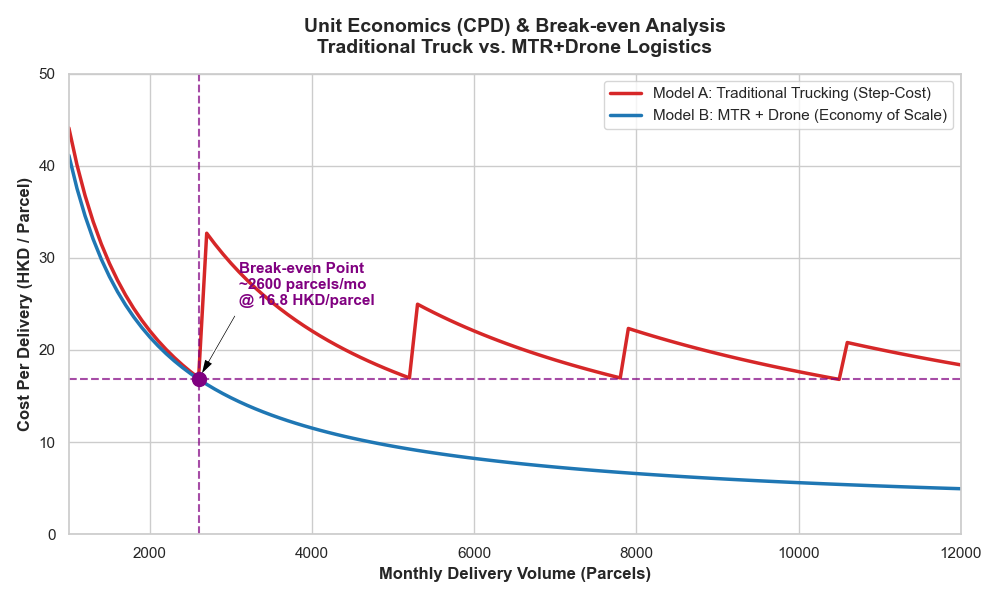
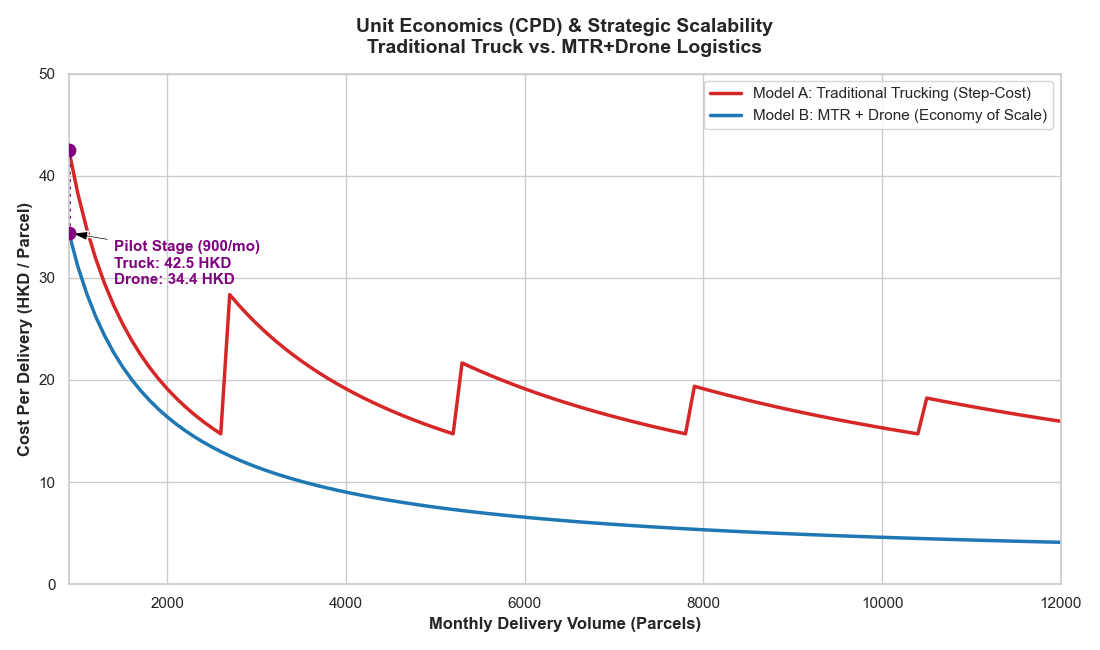
cost measurement

Changed region(s): [[0.0, 0.03, 0.992, 0.99]]

diff --git a/FYP/src/Cost_measurement.py b/FYP/src/Cost_measurement.py
@@ -3,125 +3,33 @@ import pandas as pd
 import matplotlib.pyplot as plt
 import seaborn as sns
 
-# ==========================================
-# PART 1: STATIC FINANCIAL AUDIT (Target Volume = 10,500 parcels/month)
-# ==========================================
+# 1. Define Volume Range (From pilot 900 to massive 12000)
+volumes = np.arange(900, 12500, 100)
 
-print("=" * 60)
-print("FINANCIAL AUDIT: TCO & UNIT ECONOMICS ANALYSIS")
-print("Target Monthly Volume: 10,500 parcels (420 parcels/day)")
-print("=" * 60)
-
-target_volume = 10500
-
-# --- MODEL A: TRADITIONAL TRUCK PARAMETERS ---
-truck_capacity_monthly = 2625  # ~105 parcels/day * 25 days
-trucks_needed = int(np.ceil(target_volume / truck_capacity_monthly))  # 4 trucks
-
-driver_salary = 26054
-fuel_cost_per_truck = (
-    (8.5 / 100) * 100 * 25 * 29.27
-)  # 8.5L/100km, 100km/day, 25 days, 29.27 HKD/L
-parking_toll_per_truck = 6000
-
-# Model A Calculations
-total_labor_truck = trucks_needed * driver_salary
-total_fuel_truck = trucks_needed * fuel_cost_per_truck
-total_parking_truck = trucks_needed * parking_toll_per_truck
-
-total_opex_truck = total_labor_truck + total_fuel_truck + total_parking_truck
-cpd_truck = total_opex_truck / target_volume
-
-# --- MODEL B: MTR + DRONE HYBRID PARAMETERS ---
-drones_needed = 4
-flights_needed = 1050  # Assuming 10 parcels per batch
-
-operator_salary = 20800
-battery_replacement_cost = 3183
-battery_lifecycle = 200
-cost_per_flight_battery = battery_replacement_cost / battery_lifecycle
-
-maint_per_drone = (2190 * 7.8) / 12  # 2190 USD/year to HKD/month
-electricity_total = 580
-mtr_fee = 3000
-
-# Model B Calculations
-total_battery_drone = flights_needed * cost_per_flight_battery
-total_maint_drone = drones_needed * maint_per_drone
-
-total_opex_drone = (
-    operator_salary
-    + total_battery_drone
-    + electricity_total
-    + mtr_fee
-    + total_maint_drone
-)
-cpd_drone = total_opex_drone / target_volume
-
-# --- DISPLAY STATIC RESULTS ---
-data = {
-    "Cost Category (HKD/month)": [
-        "Labor",
-        "Energy (Fuel / Elec)",
-        "Infrastructure / Parking",
-        "Maintenance / Battery",
-        "TOTAL OPEX",
-        "CPD (Cost Per Delivery)",
-    ],
-    "Model A (4 Trucks)": [
-        f"${total_labor_truck:,.0f}",
-        f"${total_fuel_truck:,.0f}",
-        f"${total_parking_truck:,.0f}",
-        "N/A (in CapEx)",
-        f"${total_opex_truck:,.0f}",
-        f"${cpd_truck:.2f} / parcel",
-    ],
-    "Model B (MTR + 4 Drones)": [
-        f"${operator_salary:,.0f}",
-        f"${electricity_total:,.0f}",
-        f"${mtr_fee:,.0f}",
-        f"${(total_battery_drone + total_maint_drone):,.0f}",
-        f"${total_opex_drone:,.0f}",
-        f"${cpd_drone:.2f} / parcel",
-    ],
-}
-
-df_financials = pd.DataFrame(data)
-print("\n[COST BREAKDOWN TABLE]")
-print(df_financials.to_string(index=False))
-print("-" * 60)
-print(
-    f"CONCLUSION: At {target_volume} parcels, Model B saves ${(cpd_truck - cpd_drone):.2f} per parcel."
-)
-print("=" * 60)
-
-
-# ==========================================
-# PART 2: DYNAMIC BREAK-EVEN ANALYSIS (1,000 to 12,000 parcels)
-# ==========================================
-
-# 1. Define Volume Range
-volumes = np.arange(1000, 12500, 100)
-
-# 2. Dynamic Model A Cost Function (Step-Cost)
-truck_cost_per_unit = driver_salary + fuel_cost_per_truck + parking_toll_per_truck
+# 2. Dynamic Model A Cost Function (Traditional Trucking)
+truck_capacity_monthly = 2600
+truck_fixed_opex = 26054 + 6000  # Driver + Parking
+truck_variable_opex = 6220  # Fuel (simplified as per-truck base)
+truck_cost_per_unit = truck_fixed_opex + truck_variable_opex
 
 
 def calc_truck_cpd(v):
-    num_trucks = np.ceil(
-        v / truck_capacity_monthly
-    )  # Scales up when capacity is breached
+    num_trucks = np.ceil(v / truck_capacity_monthly)
     total_cost = num_trucks * truck_cost_per_unit
     return total_cost / v
 
 
 truck_cpd_curve = [calc_truck_cpd(v) for v in volumes]
 
-# 3. Dynamic Model B Cost Function (Economy of Scale)
-# Fixed Costs: Salary + MTR Fee + Maintenance
+# 3. Dynamic Model B Cost Function (MTR + Drone)
+operator_salary = 20800
+mtr_fee = 3000
+maint_per_drone = (2190 * 7.8) / 12
+total_maint_drone = 4 * maint_per_drone
+
 drone_fixed_cost = operator_salary + mtr_fee + total_maint_drone
-# Variable Costs: Battery + Electricity per parcel
-drone_variable_cpd = (total_battery_drone + electricity_total) / target_volume
+# Variable: ~1.59 HKD battery + ~0.05 HKD electricity per parcel
+drone_variable_cpd = 1.64
 
 drone_cpd_curve = (drone_fixed_cost / volumes) + drone_variable_cpd
 
@@ -144,19 +52,30 @@ plt.plot(
     linewidth=2.5,
 )
 
-# 5. Locate and Annotate Break-even Point
-idx = np.argmin(np.abs(np.array(truck_cpd_curve) - np.array(drone_cpd_curve)))
-be_volume = volumes[idx]
-be_price = drone_cpd_curve[idx]
+# 5. Annotating the "Day-1 Dominance" at 900 parcels
+pilot_vol = 900
+truck_pilot_cpd = calc_truck_cpd(pilot_vol)
+drone_pilot_cpd = (drone_fixed_cost / pilot_vol) + drone_variable_cpd
 
-plt.scatter(be_volume, be_price, color="purple", s=100, zorder=5)
-plt.axvline(x=be_volume, color="purple", linestyle="--", alpha=0.7)
-plt.axhline(y=be_price, color="purple", linestyle="--", alpha=0.7)
+plt.scatter(
+    [pilot_vol, pilot_vol],
+    [truck_pilot_cpd, drone_pilot_cpd],
+    color="purple",
+    s=80,
+    zorder=5,
+)
+plt.plot(
+    [pilot_vol, pilot_vol],
+    [drone_pilot_cpd, truck_pilot_cpd],
+    color="purple",
+    linestyle=":",
+    linewidth=2,
+)
 
 plt.annotate(
-    f"Break-even Point\n~{int(be_volume)} parcels/mo\n@ {be_price:.1f} HKD/parcel",
-    xy=(be_volume, be_price),
-    xytext=(be_volume + 600, be_price + 8),
+    f"Pilot Stage (900/mo)\nTruck: {truck_pilot_cpd:.1f} HKD\nDrone: {drone_pilot_cpd:.1f} HKD",
+    xy=(pilot_vol, drone_pilot_cpd),
+    xytext=(pilot_vol + 500, drone_pilot_cpd - 5),
     arrowprops=dict(facecolor="black", shrink=0.05, width=1.5, headwidth=7),
     fontsize=11,
     fontweight="bold",
@@ -165,17 +84,16 @@ plt.annotate(
 
 # 6. Formatting
 plt.title(
-    "Unit Economics (CPD) & Break-even Analysis\nTraditional Truck vs. MTR+Drone Logistics",
+    "Unit Economics (CPD) & Strategic Scalability\nTraditional Truck vs. MTR+Drone Logistics",
     fontsize=14,
     fontweight="bold",
     pad=15,
 )
 plt.xlabel("Monthly Delivery Volume (Parcels)", fontsize=12, fontweight="bold")
 plt.ylabel("Cost Per Delivery (HKD / Parcel)", fontsize=12, fontweight="bold")
-plt.xlim(1000, 12000)
+plt.xlim(900, 12000)
 plt.ylim(0, 50)
 plt.legend(fontsize=11)
 plt.tight_layout()
 
-# Show plot
 plt.show()
